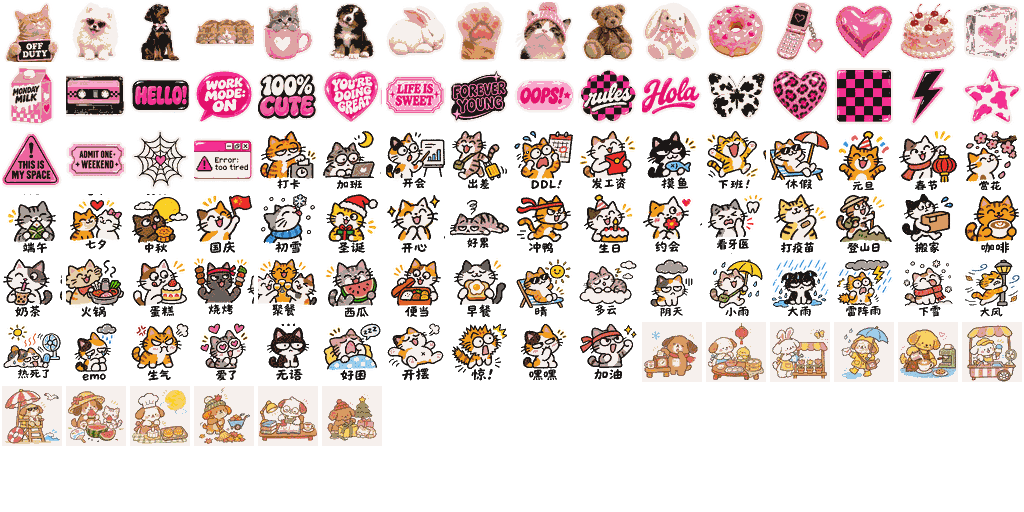
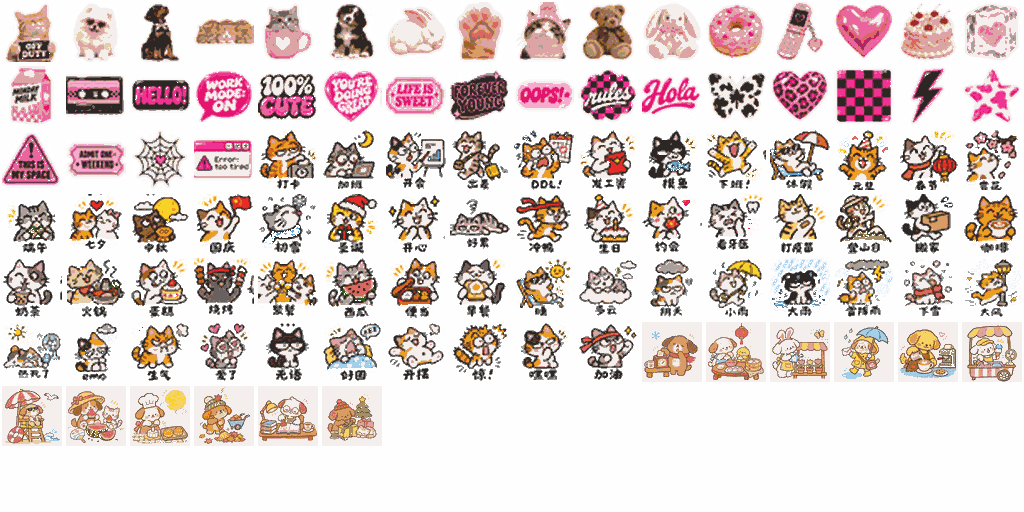
x

diff --git a/tools/gen-sticker-atlas.py b/tools/gen-sticker-atlas.py
@@ -10,7 +10,7 @@ ASSETS = ROOT / 'assets'
 CELL = 128
 WIDTH, HEIGHT = 2048, 1024
 FALLBACK_SCALE = 2
-FALLBACK_COLORS = 144
+FALLBACK_COLORS = 64
 
 
 def main():
